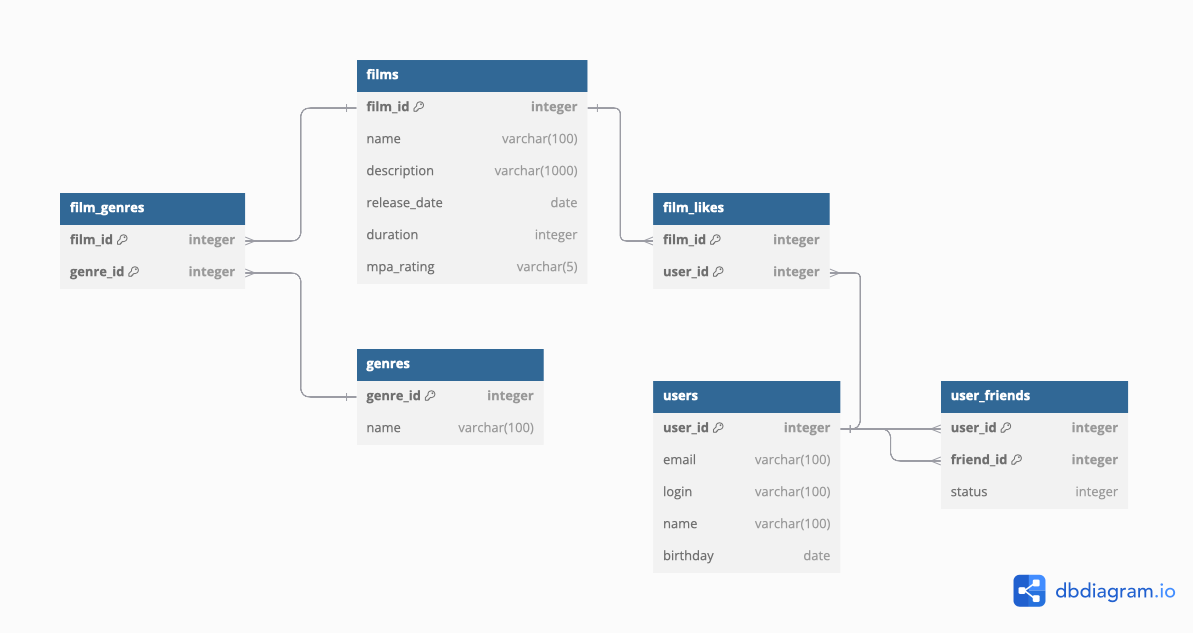
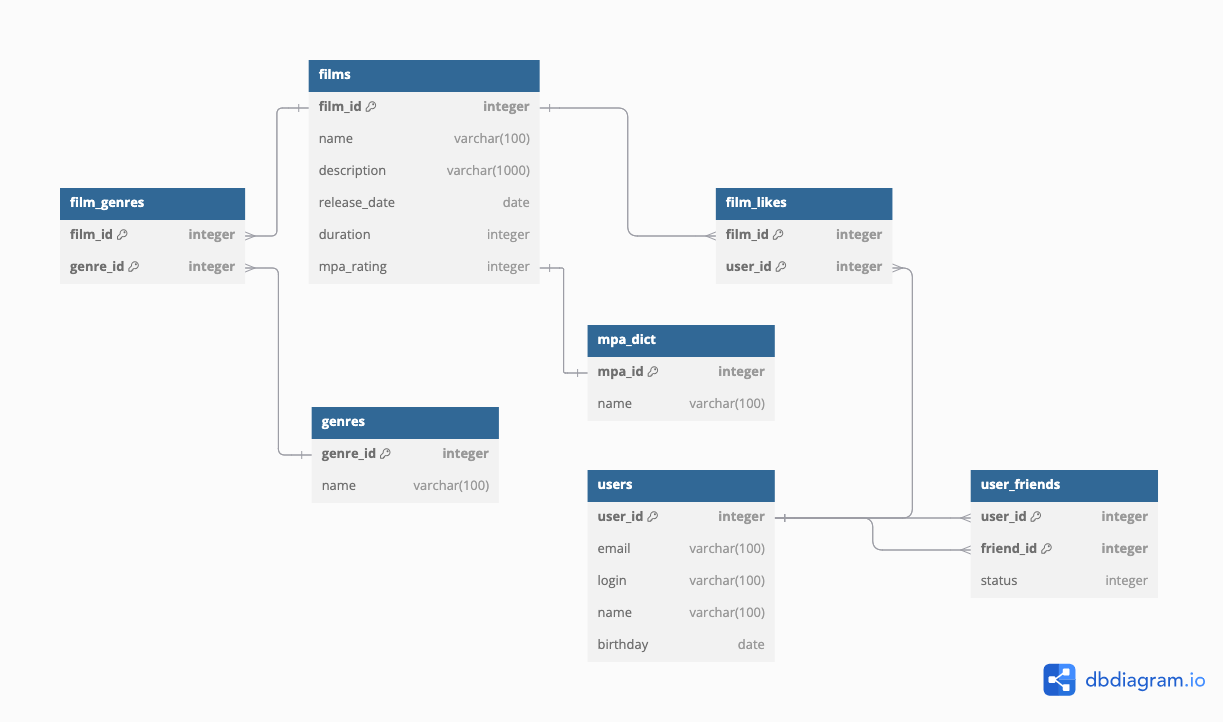
Implement MPA dictionary in DB but not in memory

diff --git a/src/main/java/ru/yandex/practicum/filmorate/storage/user/UserDbStorage.java b/src/main/java/ru/yandex/practicum/filmorate/storage/user/UserDbStorage.java
@@ -32,11 +32,11 @@ public class UserDbStorage implements UserStorage {
     private static final String DELETE_USER_QUERY = "DELETE FROM users WHERE user_id = ?";
 
     private static final String FIND_FRIENDS_QUERY = "SELECT * FROM users WHERE user_id IN " +
-            "(SELECT friend_id FROM user_friends WHERE user_id = ?)";
+            "(SELECT friend_id FROM user_friends WHERE user_id = ? AND status <> 0)";
 
     private static final String FIND_COMMON_FRIENDS_QUERY = "SELECT * FROM users WHERE user_id IN " +
-            "(SELECT friend_id FROM user_friends WHERE user_id = ? INTERSECT " +
-            "SELECT friend_id FROM user_friends WHERE user_id = ?)";
+            "(SELECT friend_id FROM user_friends WHERE user_id = ? AND status <> 0 INTERSECT " +
+            "SELECT friend_id FROM user_friends WHERE user_id = ? AND status <> 0)";
 
     private static final String DELETE_FRIEND_QUERY = "DELETE FROM user_friends WHERE user_id = ? AND friend_id = ?";
 
@@ -64,7 +64,7 @@ public class UserDbStorage implements UserStorage {
         final Long id = user.getId();
 
         // проверяем необходимые условия
-        User oldUser = findOne(id);
+        User oldUser = findOneById(id);
         UserValidations.prepareUpdate(id, user, oldUser);
 
         // если пользователь найден и все условия соблюдены, обновляем его и возвращаем обновленный объект user
@@ -79,30 +79,30 @@ public class UserDbStorage implements UserStorage {
 
     @Override
     public User delete(Long id) {
-        final User oldUser = findOne(id);
+        final User oldUser = findOneById(id);
         UserValidations.validateOneUserNotNull(oldUser, id);
         return jdbc.update(DELETE_USER_QUERY, id) > 0 ? oldUser : null;
     }
 
     @Override
     public Collection<User> findAllFriends(Long id) {
-        final User user = findOne(id);
+        final User user = findOneById(id);
         UserValidations.validateOneUserNotNull(user, id);
         return jdbc.query(FIND_FRIENDS_QUERY,  mapper, id);
     }
 
     @Override
     public Collection<User> findCommonFriends(Long id, Long otherId) {
-        final User user = findOne(id);
-        final User otherUser = findOne(otherId);
+        final User user = findOneById(id);
+        final User otherUser = findOneById(otherId);
         UserValidations.validateTwoUsersNotNull(user, otherUser, id, otherId);
         return jdbc.query(FIND_COMMON_FRIENDS_QUERY,  mapper, id, otherId);
     }
 
     @Override
     public void addFriend(Long id, Long friendId) {
-        final User user = findOne(id);
-        final User friendUser = findOne(friendId);
+        final User user = findOneById(id);
+        final User friendUser = findOneById(friendId);
         UserValidations.validateTwoUsersNotNull(user, friendUser, id, friendId);
 
         SimpleJdbcInsert simpleJdbcInsert = new SimpleJdbcInsert(jdbc).withTableName("user_friends");
@@ -114,15 +114,15 @@ public class UserDbStorage implements UserStorage {
 
     @Override
     public User deleteFriend(Long id, Long friendId) {
-        final User user = findOne(id);
-        final User friendUser = findOne(friendId);
+        final User user = findOneById(id);
+        final User friendUser = findOneById(friendId);
         UserValidations.validateTwoUsersNotNull(user, friendUser, id, friendId);
         return jdbc.update(DELETE_FRIEND_QUERY, id, friendId) > 0 ? friendUser : null;
     }
 
     @Override
     public boolean exists(Long id) {
-        final User user = findOne(id);
+        final User user = findOneById(id);
         UserValidations.validateOneUserNotNull(user, id);
         return true;
     }
@@ -144,10 +144,9 @@ public class UserDbStorage implements UserStorage {
         return values;
     }
 
-    private User findOne(long id) {
+    private User findOneById(long id) {
         try {
-            User user = (User) jdbc.queryForObject(FIND_BY_ID_QUERY, mapper, id);
-            return user;
+            return jdbc.queryForObject(FIND_BY_ID_QUERY, mapper, id);
         } catch (EmptyResultDataAccessException ignored) {
             return null;
         }

diff --git a/src/main/java/ru/yandex/practicum/filmorate/storage/film/FilmDbStorage.java b/src/main/java/ru/yandex/practicum/filmorate/storage/film/FilmDbStorage.java
@@ -28,9 +28,21 @@ public class FilmDbStorage implements FilmStorage {
 
     private final GenreDbStorage genreDbStorage;
 
-    private static final String FIND_ALL_QUERY = "SELECT * FROM films ORDER BY film_id";
+    private static final String FIND_ALL_QUERY =
+            """
+            SELECT f.film_id, f.name, f.description, f.release_date, f.duration,
+                   md.mpa_id, md.name AS mpa_name
+            FROM films AS f
+            LEFT JOIN mpa_dict AS md ON f.mpa_rating = md.mpa_id
+            ORDER BY f.film_id""";
 
-    private static final String FIND_BY_ID_QUERY = "SELECT * FROM films WHERE film_id = ?";
+    private static final String FIND_BY_ID_QUERY =
+            """
+            SELECT f.film_id, f.name, f.description, f.release_date, f.duration,
+                   md.mpa_id, md.name AS mpa_name
+            FROM films AS f
+            LEFT JOIN mpa_dict AS md ON f.mpa_rating = md.mpa_id
+            WHERE f.film_id = ?""";
 
     private static final String UPDATE_QUERY = "UPDATE films SET name = ?, description = ?, release_date = ?, " +
             "duration = ?, mpa_rating = ? WHERE film_id = ?";
@@ -39,14 +51,17 @@ public class FilmDbStorage implements FilmStorage {
 
     private static final String FIND_POPULAR =
             """
-            SELECT * FROM films AS f
+            SELECT f.film_id, f.name, f.description, f.release_date, f.duration,
+                   md.mpa_id, md.name AS mpa_name
+            FROM films AS f
             JOIN
                 (SELECT film_id,
-                 count(user_id) AS likes_count
-                FROM film_likes
-                GROUP BY film_id
-                ORDER BY likes_count DESC
-                LIMIT (?)) AS t ON f.film_id = t.film_id
+                        count(user_id) AS likes_count
+                 FROM film_likes
+                 GROUP BY film_id
+                 ORDER BY likes_count DESC
+                 LIMIT (?)) AS t ON f.film_id = t.film_id
+            LEFT JOIN mpa_dict AS md ON f.mpa_rating = md.mpa_id
             ORDER BY t.likes_count DESC""";
 
     private static final String DELETE_LIKE_QUERY = "DELETE FROM film_likes WHERE film_id = ? AND user_id = ?";
@@ -64,8 +79,7 @@ public class FilmDbStorage implements FilmStorage {
     @Override
     public Film findOneById(Long id) {
         try {
-            Film film = (Film) jdbc.queryForObject(FIND_BY_ID_QUERY, mapper, id);
-            return film;
+            return jdbc.queryForObject(FIND_BY_ID_QUERY, mapper, id);
         } catch (EmptyResultDataAccessException ignored) {
             return null;
         }
@@ -93,9 +107,8 @@ public class FilmDbStorage implements FilmStorage {
             simpleJdbcInsert = new SimpleJdbcInsert(jdbc).withTableName("film_genres");
             try {
                 simpleJdbcInsert.execute(toFilmGenresMap(id, genre.getId()));
-            }  catch (DuplicateKeyException exception) {
+            }  catch (DuplicateKeyException ignored) {
                 log.warn("Комбинация film_id = {} и genre_id = {} уже есть в БД!", id, genre.getId());
-                //throw new ValidationException("Идентификтор фильма не может быть пустым для команды обновления", exception);
             }
         }
 
@@ -157,7 +170,7 @@ public class FilmDbStorage implements FilmStorage {
         values.put("duration", film.getDuration());
         Mpa mpa = film.getMpa();
         if (mpa != null) {
-            values.put("mpa_rating", film.getMpa().getId());
+            values.put("mpa_rating", mpa.getId());
         }
         return values;
     }

diff --git a/src/main/java/ru/yandex/practicum/filmorate/service/film/MpaService.java b/src/main/java/ru/yandex/practicum/filmorate/service/film/MpaService.java
@@ -1,41 +1,22 @@
 package ru.yandex.practicum.filmorate.service.film;
 
-import lombok.extern.slf4j.Slf4j;
+import lombok.RequiredArgsConstructor;
 import org.springframework.stereotype.Service;
-import ru.yandex.practicum.filmorate.exception.NotFoundException;
 import ru.yandex.practicum.filmorate.model.Mpa;
+import ru.yandex.practicum.filmorate.storage.mpa.MpaStorage;
 
 import java.util.*;
 
-@Slf4j
 @Service
+@RequiredArgsConstructor
 public class MpaService {
-    // Справочник MPA хранится в памяти, а не в БД, т.к. это фиксированный список, утвержденный профильной организацией:
-    // См. https://www.kinopoisk.ru/mpaa
-    static Map<Integer, String> mpaIdToName = new HashMap<>();
-
-    static {
-        mpaIdToName.put(1, "G");
-        mpaIdToName.put(2, "PG");
-        mpaIdToName.put(3, "PG-13");
-        mpaIdToName.put(4, "R");
-        mpaIdToName.put(5, "NC-17");
-    }
+    private final MpaStorage mpaStorage;
 
     public Collection<Mpa> findAll() {
-        List<Mpa> mpaDict = new ArrayList<>();
-        for (Map.Entry<Integer, String> entry : mpaIdToName.entrySet()) {
-            mpaDict.add(new Mpa(entry.getKey(), entry.getValue()));
-        }
-        return mpaDict;
+        return mpaStorage.findAll();
     }
 
     public Mpa findById(Integer id) {
-        String name = mpaIdToName.get(id);
-        if (name == null) {
-            log.error("Не найден MPA-рейтинг с ID = {} при обработке GET-запроса", id);
-            throw new NotFoundException("Не удалось найти MPA-рейтинг по идентификатору.");
-        }
-        return new Mpa(id, name);
+        return mpaStorage.findOneById(id);
     }
 }

diff --git a/src/main/java/ru/yandex/practicum/filmorate/storage/film/utils/FilmRowMapper.java b/src/main/java/ru/yandex/practicum/filmorate/storage/film/utils/FilmRowMapper.java
@@ -1,11 +1,11 @@
 package ru.yandex.practicum.filmorate.storage.film.utils;
 
-import org.springframework.beans.factory.annotation.Autowired;
+import lombok.RequiredArgsConstructor;
 import org.springframework.jdbc.core.RowMapper;
 import org.springframework.stereotype.Component;
 import ru.yandex.practicum.filmorate.model.Film;
 import ru.yandex.practicum.filmorate.model.Genre;
-import ru.yandex.practicum.filmorate.service.film.MpaService;
+import ru.yandex.practicum.filmorate.model.Mpa;
 import ru.yandex.practicum.filmorate.storage.genre.GenreStorage;
 
 import java.sql.ResultSet;
@@ -15,16 +15,13 @@ import java.util.List;
 
 
 @Component
+@RequiredArgsConstructor
 public class FilmRowMapper implements RowMapper<Film> {
-    @Autowired
-    private MpaService mpaService;
-
-    @Autowired
-    private GenreStorage genreStorage;
+    private final GenreStorage genreStorage;
 
     @Override
     public Film mapRow(ResultSet resultSet, int rowNum) throws SQLException {
-        Film film = new Film();
+        final Film film = new Film();
         final Long filmId = resultSet.getLong("film_id");
         film.setId(filmId);
         film.setName(resultSet.getString("name"));
@@ -35,9 +32,10 @@ public class FilmRowMapper implements RowMapper<Film> {
 
         film.setDuration(resultSet.getInt("duration"));
 
-        Integer mpaId = resultSet.getInt("mpa_rating");
+        final int mpaId = resultSet.getInt("mpa_id");
         if (mpaId > 0) {
-            film.setMpa(mpaService.findById(mpaId));
+            final String mpaName = resultSet.getString("mpa_name");
+            film.setMpa(new Mpa(mpaId, mpaName));
         }
 
         List<Genre> genres = genreStorage.getFilmGenres(filmId);

diff --git a/src/main/java/ru/yandex/practicum/filmorate/storage/mpa/MpaDbStorage.java b/src/main/java/ru/yandex/practicum/filmorate/storage/mpa/MpaDbStorage.java
@@ -1,0 +1,38 @@
+package ru.yandex.practicum.filmorate.storage.mpa;
+
+import lombok.RequiredArgsConstructor;
+import lombok.extern.slf4j.Slf4j;
+import org.springframework.dao.EmptyResultDataAccessException;
+import org.springframework.jdbc.core.JdbcTemplate;
+import org.springframework.stereotype.Repository;
+import ru.yandex.practicum.filmorate.exception.NotFoundException;
+import ru.yandex.practicum.filmorate.model.Mpa;
+
+import java.util.Collection;
+
+@Slf4j
+@Repository
+@RequiredArgsConstructor
+public class MpaDbStorage implements MpaStorage {
+    private final JdbcTemplate jdbc;
+    private final MpaRowMapper mapper;
+
+    private static final String FIND_ALL_QUERY = "SELECT * FROM mpa_dict ORDER BY mpa_id";
+
+    private static final String FIND_BY_ID_QUERY = "SELECT * FROM mpa_dict WHERE mpa_id = ?";
+
+    @Override
+    public Collection<Mpa> findAll() {
+        return jdbc.query(FIND_ALL_QUERY,  mapper);
+    }
+
+    @Override
+    public Mpa findOneById(Integer id) {
+        try {
+            return jdbc.queryForObject(FIND_BY_ID_QUERY, mapper, id);
+        }  catch (EmptyResultDataAccessException exception) {
+            log.error("При запросе MPA-рейтинга получен идентификатор, отсутствующий в таблице mpa_dict: {}", id);
+            throw new NotFoundException("Идентификтор MPA-рейтинга не найден", exception);
+        }
+    }
+}

diff --git a/src/test/java/ru/yandex/practicum/filmorate/FilmControllerTest.java b/src/test/java/ru/yandex/practicum/filmorate/FilmControllerTest.java
@@ -15,7 +15,9 @@ import ru.yandex.practicum.filmorate.service.film.MpaService;
 import ru.yandex.practicum.filmorate.storage.film.FilmDbStorage;
 import ru.yandex.practicum.filmorate.storage.film.utils.FilmRowMapper;
 import ru.yandex.practicum.filmorate.storage.genre.GenreDbStorage;
-import ru.yandex.practicum.filmorate.storage.genre.utils.GenreRowMapper;
+import ru.yandex.practicum.filmorate.storage.genre.GenreRowMapper;
+import ru.yandex.practicum.filmorate.storage.mpa.MpaDbStorage;
+import ru.yandex.practicum.filmorate.storage.mpa.MpaRowMapper;
 import ru.yandex.practicum.filmorate.utils.LocalDateAdapter;
 
 import java.io.IOException;
@@ -30,7 +32,8 @@ import static org.junit.jupiter.api.Assertions.*;
 
 @JdbcTest
 @AutoConfigureTestDatabase
-@Import({FilmDbStorage.class, MpaService.class, GenreRowMapper.class, GenreDbStorage.class, FilmRowMapper.class})
+@Import({FilmDbStorage.class, MpaService.class, MpaRowMapper.class, MpaDbStorage.class,
+		GenreRowMapper.class, GenreDbStorage.class, FilmRowMapper.class})
 class FilmControllerTest {
 	private static final ConfigurableApplicationContext run = SpringApplication.run(FilmorateApplication.class);
 	private static Gson gson;

diff --git a/src/main/java/ru/yandex/practicum/filmorate/storage/mpa/MpaRowMapper.java b/src/main/java/ru/yandex/practicum/filmorate/storage/mpa/MpaRowMapper.java
@@ -1,0 +1,19 @@
+package ru.yandex.practicum.filmorate.storage.mpa;
+
+import org.springframework.jdbc.core.RowMapper;
+import org.springframework.stereotype.Component;
+import ru.yandex.practicum.filmorate.model.Mpa;
+
+import java.sql.ResultSet;
+import java.sql.SQLException;
+
+@Component
+public class MpaRowMapper implements RowMapper<Mpa> {
+    @Override
+    public Mpa mapRow(ResultSet resultSet, int rowNum) throws SQLException {
+        Mpa mpa = new Mpa(0, "");
+        mpa.setId(resultSet.getInt("mpa_id"));
+        mpa.setName(resultSet.getString("name"));
+        return mpa;
+    }
+}

diff --git a/src/main/java/ru/yandex/practicum/filmorate/storage/genre/GenreDbStorage.java b/src/main/java/ru/yandex/practicum/filmorate/storage/genre/GenreDbStorage.java
@@ -8,7 +8,6 @@ import org.springframework.stereotype.Repository;
 import ru.yandex.practicum.filmorate.exception.NotFoundException;
 import ru.yandex.practicum.filmorate.exception.ValidationException;
 import ru.yandex.practicum.filmorate.model.Genre;
-import ru.yandex.practicum.filmorate.storage.genre.utils.GenreRowMapper;
 
 import java.util.Collection;
 import java.util.List;

diff --git a/src/main/java/ru/yandex/practicum/filmorate/storage/mpa/MpaStorage.java b/src/main/java/ru/yandex/practicum/filmorate/storage/mpa/MpaStorage.java
@@ -1,0 +1,11 @@
+package ru.yandex.practicum.filmorate.storage.mpa;
+
+import ru.yandex.practicum.filmorate.model.Mpa;
+
+import java.util.Collection;
+
+public interface MpaStorage {
+    Collection<Mpa> findAll();
+
+    Mpa findOneById(Integer id);
+}

diff --git a/src/main/java/ru/yandex/practicum/filmorate/storage/genre/GenreRowMapper.java b/src/main/java/ru/yandex/practicum/filmorate/storage/genre/GenreRowMapper.java
@@ -1,4 +1,4 @@
-package ru.yandex.practicum.filmorate.storage.genre.utils;
+package ru.yandex.practicum.filmorate.storage.genre;
 
 import org.springframework.jdbc.core.RowMapper;
 import org.springframework.stereotype.Component;
